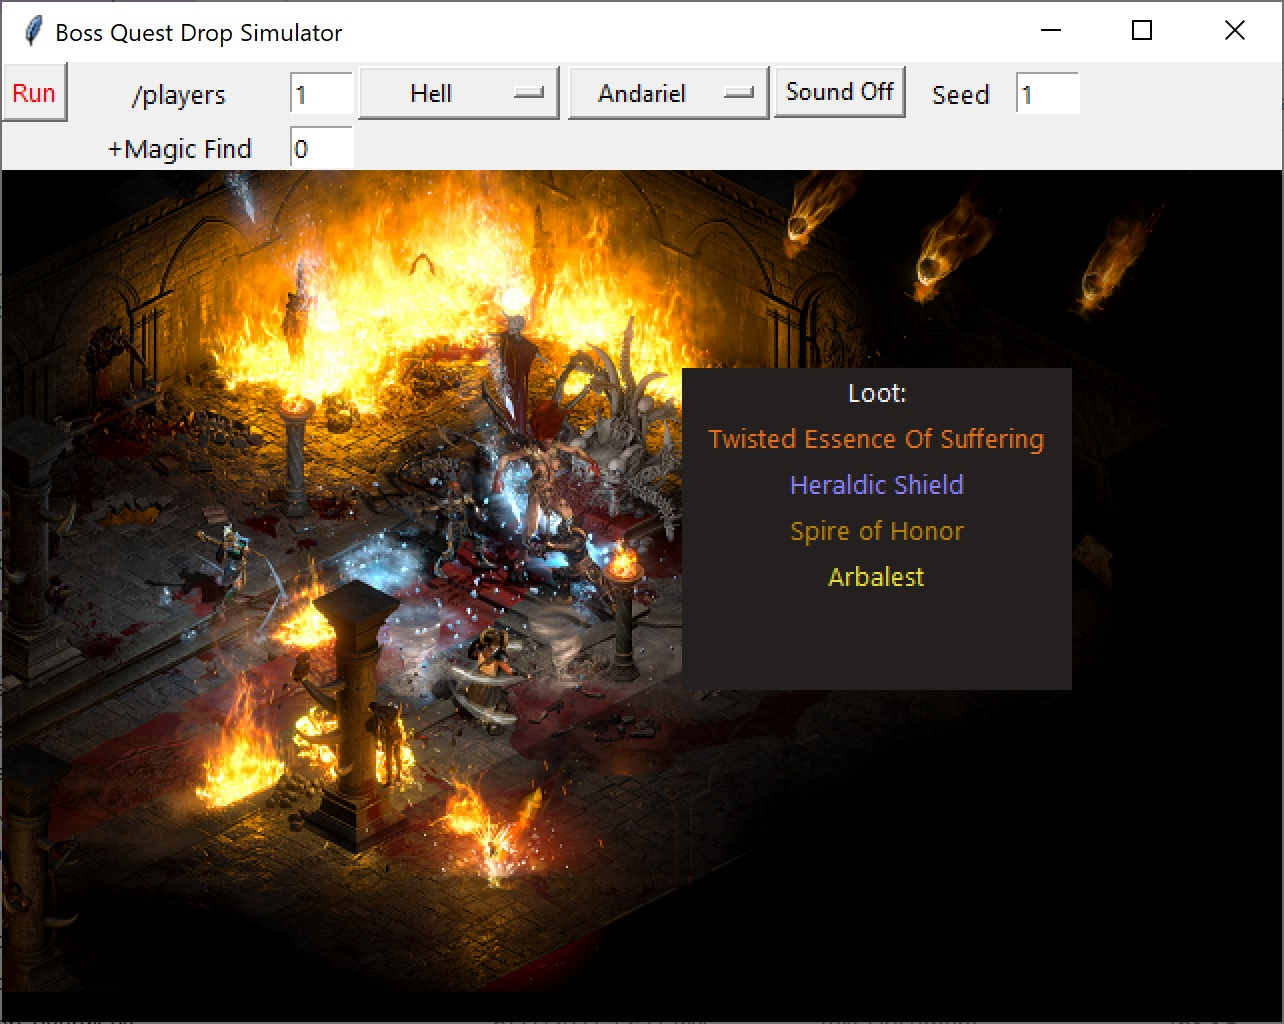
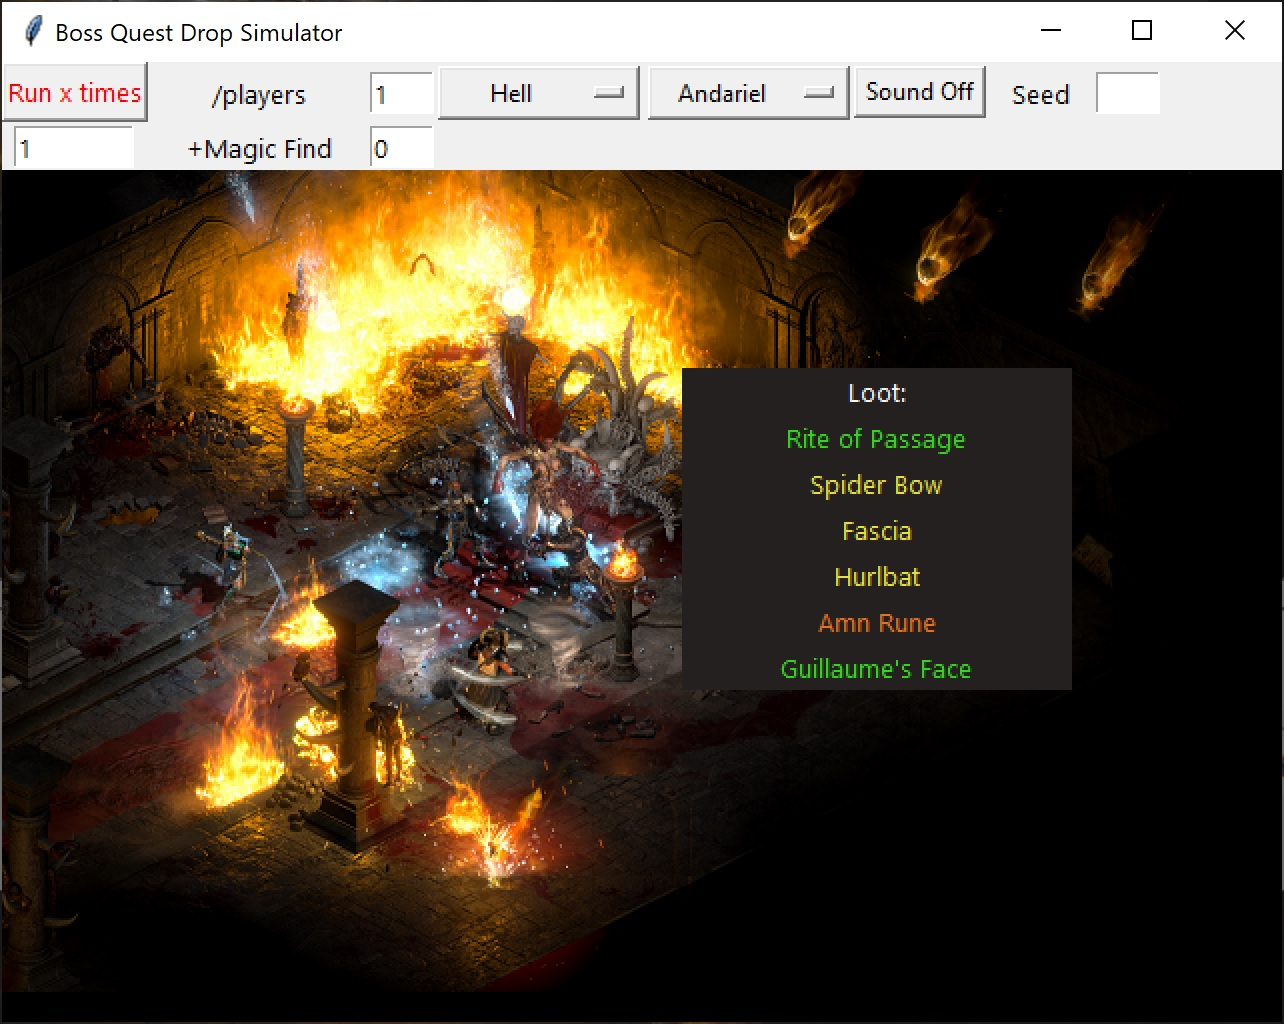
add runx times text input

diff --git a/dropsim.py b/dropsim.py
@@ -29,78 +29,87 @@ root.geometry('640x480')
 
 # function to display loot
 num_runs = 0
+running_once = True
 def run_clicked():
-    global num_runs
-    num_runs += 1
-    logging.info(f"{num_runs})")
+    global num_runs, runx
+
+    # run x times logic. do not play sound if running >1
+    try:
+        xtimes = max(int(runx.get()),1)  # if neg. int, xtimes -> 1
+        running_once = False if xtimes > 1 else True
+    except:
+        xtimes, running_once = 1, True
 
     # boss selected from a dropdown: boss.get().  e.g.  'Andariel'
     mon_str = boss.get() + 'q' + DIFFICULTIES[diffi.get()]
     players_str = txt.get()
     mf_str = txtmf.get()
     seed_str = txtseed.get()
-    drops = [] # 6 items at most.  7 picks from bosses
-    
     lbl3.configure(text = "Loot:")
-    # clean all previous drops
-    for i in range(6):
-        loot_labels[i].configure(text = '', fg = '#f5f5f5')
+        
+    for r in range(xtimes):
+        num_runs += 1
+        logging.info(f"{num_runs})")
+        drops = [] # 6 items at most.  7 picks from bosses
+        # clean all previous drops
+        for i in range(6):
+            loot_labels[i].configure(text = '', fg = '#f5f5f5')
 
-    for i in range(7):
-        if len(drops) == 6:
-            break
-        loot_item = final_roll_from_tc(mon_str, players_str, seed_str)   # output is '' if NoDrop
-        if loot_item:
-            loot_item = name_from_armo_weap_misc(loot_item, mf_str, mon_str)
-            drops.append(loot_item)
+        for i in range(7):
+            if len(drops) == 6:
+                break
+            loot_item = final_roll_from_tc(mon_str, players_str, seed_str)   # output is '' if NoDrop
+            if loot_item:
+                loot_item = name_from_armo_weap_misc(loot_item, mf_str, mon_str)
+                drops.append(loot_item)
 
-    for i,loot_item in enumerate(drops):
-        if "uni~" in loot_item:
-            if "failed uni~" in loot_item:
-                if 'potion' in loot_item.lower(): #loot_labels
-                    loot_labels[i].configure(text = loot_item.replace('failed uni~ ',''), fg = '#f5f5f5')  # default gray
+        for i,loot_item in enumerate(drops):
+            if "uni~" in loot_item:
+                if "failed uni~" in loot_item:
+                    if 'potion' in loot_item.lower(): #loot_labels
+                        loot_labels[i].configure(text = loot_item.replace('failed uni~ ',''), fg = '#f5f5f5')  # default gray
+                    else:
+                        loot_labels[i].configure(text = loot_item.replace('failed uni~ ',''), fg = '#ebe134')  # rare/yellow
+                        if "charm" in loot_item.lower():
+                            loot_labels[i].configure(text = loot_item.replace('failed uni~ ',''), fg = '#8f82ff')    # undo rare color for charm
                 else:
-                    loot_labels[i].configure(text = loot_item.replace('failed uni~ ',''), fg = '#ebe134')  # rare/yellow
-                    if "charm" in loot_item.lower():
-                        loot_labels[i].configure(text = loot_item.replace('failed uni~ ',''), fg = '#8f82ff')    # undo rare color for charm
-            else:
-                loot_labels[i].configure(text = loot_item.replace('uni~ ',''), fg = '#ba8106')  # unique
-                logging.info(f"{loot_item}")
+                    loot_labels[i].configure(text = loot_item.replace('uni~ ',''), fg = '#ba8106')  # unique
+                    logging.info(f"{loot_item}")
 
-        elif "set~" in loot_item:
-            if "failed set~" in loot_item:
+            elif "set~" in loot_item:
+                if "failed set~" in loot_item:
+                    if 'potion' in loot_item.lower():
+                        loot_labels[i].configure(text = loot_item.replace('failed set~ ',''), fg = '#f5f5f5')  # default gray
+                    else:
+                        loot_labels[i].configure(text = loot_item.replace('failed set~ ',''), fg = '#8f82ff')  # magic/blue
+                else:
+                    loot_labels[i].configure(text = loot_item.replace('set~ ',''), fg = '#33d61a')   # green
+                    logging.info(f"{loot_item}")
+            
+            elif "rare~" in loot_item:
                 if 'potion' in loot_item.lower():
-                    loot_labels[i].configure(text = loot_item.replace('failed set~ ',''), fg = '#f5f5f5')  # default gray
+                    loot_labels[i].configure(text = loot_item.replace('rare~ ',''), fg = '#f5f5f5')  # default gray
                 else:
-                    loot_labels[i].configure(text = loot_item.replace('failed set~ ',''), fg = '#8f82ff')  # magic/blue
-            else:
-                loot_labels[i].configure(text = loot_item.replace('set~ ',''), fg = '#33d61a')   # green
-                logging.info(f"{loot_item}")
-        
-        elif "rare~" in loot_item:
-            if 'potion' in loot_item.lower():
-                loot_labels[i].configure(text = loot_item.replace('rare~ ',''), fg = '#f5f5f5')  # default gray
-            else:
-                loot_labels[i].configure(text = loot_item.replace('rare~ ',''), fg = '#ebe134')  # rare/yellow
-                if "charm" in loot_item.lower():
-                    loot_labels[i].configure(text = loot_item.replace('rare~ ',''), fg = '#8f82ff')    # undo rare color for charm
+                    loot_labels[i].configure(text = loot_item.replace('rare~ ',''), fg = '#ebe134')  # rare/yellow
+                    if "charm" in loot_item.lower():
+                        loot_labels[i].configure(text = loot_item.replace('rare~ ',''), fg = '#8f82ff')    # undo rare color for charm
 
-        elif ("essence of" in loot_item.lower() or " rune" in loot_item.lower()):
-            loot_labels[i].configure(text = loot_item, fg = '#eb721c')
-        else:
-            # reset color
-            loot_labels[i].configure(text = loot_item, fg = '#f5f5f5')
-        
-        # final str fixes
-        loot_str = loot_labels[i].cget('text')
-        loot_str = loot_str.replace("Charm Large", "Grand Charm").replace("Charm Medium", "Large Charm").replace("Charm Small", "Small Charm")
-        # if "charm" in loot_str.lower(): print("**************************charm", loot_str)
-        loot_labels[i].configure(text = loot_str)
-    logging.info(" ")
+            elif ("essence of" in loot_item.lower() or " rune" in loot_item.lower()):
+                loot_labels[i].configure(text = loot_item, fg = '#eb721c')
+            else:
+                # reset color
+                loot_labels[i].configure(text = loot_item, fg = '#f5f5f5')
+            
+            # final str fixes
+            loot_str = loot_labels[i].cget('text')
+            loot_str = loot_str.replace("Charm Large", "Grand Charm").replace("Charm Medium", "Large Charm").replace("Charm Small", "Small Charm")
+            # if "charm" in loot_str.lower(): print("**************************charm", loot_str)
+            loot_labels[i].configure(text = loot_str)
+        logging.info(" ")
 
-    # play drop sound
-    if sound_btn.config('relief')[-1] == 'sunken':
-        playsound('./sound/dropsound.mp3', False)
+        # play drop sound
+        if sound_btn.config('relief')[-1] == 'sunken' and running_once:
+            playsound('./sound/dropsound.mp3', False)
 
 
 # background image
@@ -113,29 +122,33 @@ def draw_bckgrd(boss_str=BOSSES[0]):
 draw_bckgrd()
 
 # Run button
-btn = Button(root, text = "Run" , fg = "red", command=run_clicked, font=('Segoe UI', 10))
+btn = Button(root, text = "Run x times", width=9, fg = "red", command=run_clicked, font=('Segoe UI', 10))
 # set button grid
 btn.grid(column=0, row=0)
 
 # players setting
 lbl1 = Label(root, text = "/players", font=('Segoe UI', 10), width=15)
 lbl1.grid(column=1, row=0)
-# players entry Field
+# players entry field
 txt = Entry(root, width=4, font=('Segoe UI', 10))
 txt.insert(0, "1")
 txt.grid(column=2, row=0)
 
-# MF settings
-def draw_mf_settings(mf_str="0"):
-    global lbl2, txtmf
+# MF settings and run x field
+def draw_mf_runx_settings(mf_str="0"):
+    global lbl2, txtmf, runx
     lbl2 = Label(root, text = "+Magic Find", font=('Segoe UI', 10), width=15)
     lbl2.grid(column=1, row=1)
-    # entry Field
+    # entry field
     txtmf = Entry(root, width=4, font=('Segoe UI', 10))
     txtmf.insert(0, mf_str)
     txtmf.grid(column=2, row=1)
+    # run x times entry field
+    runx = Entry(root, width=8, font=('Segoe UI', 10))
+    runx.insert(0, "1")
+    runx.grid(column=0, row=1)
 
-draw_mf_settings()
+draw_mf_runx_settings()
 
 # difficulty settings dropdown
 diffi = StringVar(root)
@@ -149,7 +162,7 @@ def change_bkgrd_and_draw_labels(*args):
     prev_mf = txtmf.get()
     draw_bckgrd(boss.get())
     # redraw MF label. it's cut off once background image is drawn
-    draw_mf_settings(prev_mf)
+    draw_mf_runx_settings(prev_mf)
     # redraw loot labels if boss dropdown callback is used. Had issue where duriel -> duriel click would remove the loot labels from FOV
     draw_lootlabels()
     # # play sound andy, duri, meph, diablo. The audio beginning is abrupt
@@ -209,15 +222,10 @@ sound_btn.grid(column=5, row=0)
 # random seed setting
 lblseed = Label(root, text = "Seed", font=('Segoe UI', 10), width=7)
 lblseed.grid(column=6, row=0)
-# seed entry Field
+# seed entry field
 txtseed = Entry(root, width=4, font=('Segoe UI', 10))
 txtseed.insert(0, "")
 txtseed.grid(column=7, row=0)
 
 
 root.mainloop()
-
-
-### Possible TODO: 'run X times'
-# 100 andy runs with one click. then see the Loot!
-# add a scroll window. how would i add colored text?

diff --git a/README.md b/README.md
@@ -22,6 +22,10 @@ Vampgaze, Duriels, Skullders?
 - Ethereal status
 
 
+### Run `x` times
+Specify the number of runs to simulate with the text input field underneath the button `Run x times`. The results of the runs will be logged to the file `session.txt`. Drop sounds are disabled if the number of runs is more than 1.
+
+
 ### Drop Sounds
 A button to toggle drop sounds enables/disables playing a sound effect while loot is 'dropped' by a boss.  
 D2 mp3 files from this reddit [thread](https://www.reddit.com/r/pathofexile/comments/9at2tw/d2_sounds_arranged_for_neversinks_filterblade/?utm_source=share&utm_medium=mweb&_branch_match_id=894651600463416745) are included in the `sound/` folder.  
